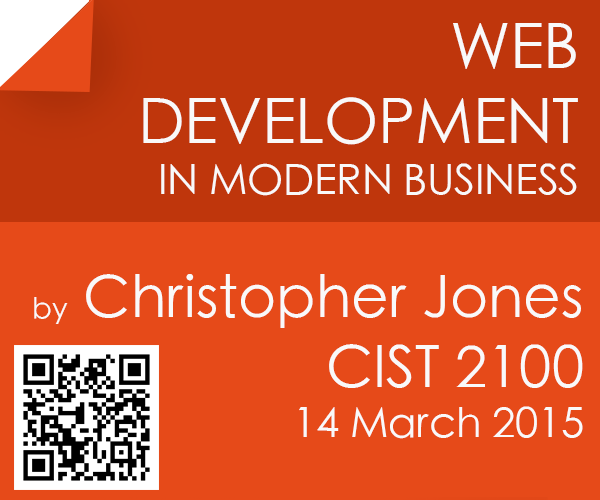
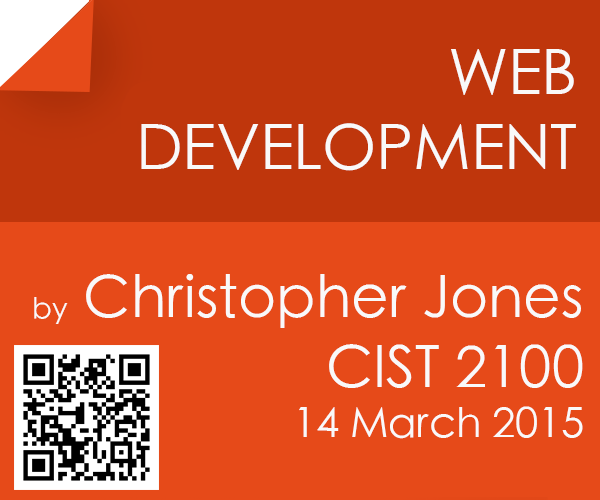
alskdjf

Changed region(s): [[0.21, 0.03, 0.96, 0.39]]

diff --git a/index.html b/index.html
@@ -20,7 +20,7 @@
     <link rel="icon" type="image/png" href="favicon.png">
         
     <!--title-->
-    <title>Web Developement In The Present Business World</title>
+    <title>Web Developement</title>
 </head>
 <body>
     

diff --git a/interaction.html b/interaction.html
@@ -20,7 +20,7 @@
     <link rel="icon" type="image/png" href="favicon.png">
         
     <!--title-->
-    <title>Web Developement In The Present Business World</title>
+    <title>Web Developement</title>
 </head>
 <body>
     

diff --git a/languages.html b/languages.html
@@ -20,7 +20,7 @@
     <link rel="icon" type="image/png" href="favicon.png">
         
     <!--title-->
-    <title>Web Developement In The Present Business World</title>
+    <title>Web Developement</title>
 </head>
 <body>
     

diff --git a/practices.html b/practices.html
@@ -20,7 +20,7 @@
     <link rel="icon" type="image/png" href="favicon.png">
         
     <!--title-->
-    <title>Web Developement In The Present Business World</title>
+    <title>Web Developement</title>
 </head>
 <body>
     

diff --git a/tools.html b/tools.html
@@ -20,7 +20,7 @@
     <link rel="icon" type="image/png" href="favicon.png">
         
     <!--title-->
-    <title>Web Developement In The Present Business World</title>
+    <title>Web Developement</title>
 </head>
 <body>
     

diff --git a/why.html b/why.html
@@ -20,7 +20,7 @@
     <link rel="icon" type="image/png" href="favicon.png">
         
     <!--title-->
-    <title>Web Developement In The Present Business World</title>
+    <title>Web Developement</title>
 </head>
 <body>
     
